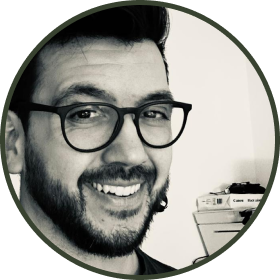
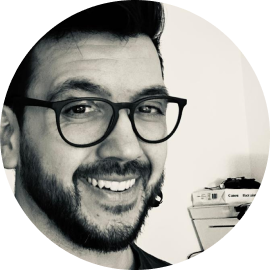
chore:about text fixed align, dual effect

Changed region(s): [[0.0, 0.0, 1.0, 1.0], [0.2963, 0.5926, 0.3556, 0.6222], [0.1778, 0.7111, 0.2074, 0.7407]]

diff --git a/styles/homepage/aboutme.scss b/styles/homepage/aboutme.scss
@@ -106,3 +106,32 @@
     }
   }
 }
+
+.image-hover {
+  --g: 8px; /* the gap */
+  
+  display: grid;
+  clip-path: inset(1px); /* to avoid visual glitchs */
+  & > img {
+    --_p: calc(-1*var(--g));
+    grid-area: 1/1;
+    width: 350px; /* control the size */
+    aspect-ratio: 1;
+    cursor: pointer;
+    transition: .4s .1s;
+  }
+  & > img:first-child {
+    clip-path: polygon(0 0, calc(100% + var(--_p)) 0 , 0 calc(100% + var(--_p)))
+  }
+  & > img:last-child {
+    clip-path: polygon(100% 100%, 100% calc(0% - var(--_p)), calc(0% - var(--_p)) 100%)
+  }
+  &:hover > img:last-child,
+  &:hover > img:first-child:hover{
+    --_p: calc(50% - var(--g));
+  }
+  &:hover > img:first-child,
+  &:hover > img:first-child:hover + img{
+    --_p: calc(-50% - var(--g));
+  }
+}

diff --git a/components/_homepage/About/image.jsx b/components/_homepage/About/image.jsx
@@ -1,14 +1,15 @@
 import React from "react";
 
-import { ImagesComponent } from "../../_shared";
+import { ImagesDualEffectComponent } from "../../_shared";
 
 export default function ImageComponent() {
   return (
     <>
-      <ImagesComponent
-        style="w-[260px] lg:w-[400px] h-[260px] lg:h-[400px] drop-shadow-xl"
+      <ImagesDualEffectComponent
+        style="w-[260px] lg:w-[400px] h-[260px] lg:h-[400px] image-hover hover:cursor-pointer"
         alt="paulo reizinho"
         src="/home_me_01.png"
+        src2="/home_me_02.png"
       />
     </>
   );

diff --git a/components/_shared/index.js b/components/_shared/index.js
@@ -3,6 +3,7 @@ export { default as TitleUpAndDown } from './title_up&down';
 export { default as BtnPrimaryCTA } from './btn_primary_cta';
 export { default as BtnSecondaryCTA } from './btn_secondary_cta';
 export { default as ImagesComponent } from './images';
+export { default as ImagesDualEffectComponent } from './imagesDual';
 export { default as CardPrimary } from './card_primary';
 export { default as StarsComponent } from './background_stars';
 export { default as CometsComponent } from './background_comets';

diff --git a/components/_homepage/About/index.jsx b/components/_homepage/About/index.jsx
@@ -22,7 +22,7 @@ export default function AboutSection() {
         <TitleRetro title="About me." />
       </EntryAnimation>
       <div className="w-4/5 2xl:w-3/5 custom-center flex-col xl:flex-row my-6 lg:my-10">
-        <EntryAnimation style="order-2 w-[430px] xl:w-full mt-6" animation={bringFromRight}>
+        <EntryAnimation style="order-2 min-w-[290px] lg:w-[430px] xl:w-full mt-6" animation={bringFromRight}>
           <TextComponent />
         </EntryAnimation>
         <EntryAnimation

diff --git a/components/_projects/Projects/index.jsx b/components/_projects/Projects/index.jsx
@@ -31,7 +31,7 @@ export default function ProjectsSection() {
         <ProjectsIntro pageIntro={t("projects:projects_intro")} />
       </EntryAnimation>
       <ProjectsExplanation />
-      <div className="flex w-full justify-around">
+      <div className="flex w-full h-full justify-around">
         <EntryAnimation style="w-1/2" animation={bringFromLeft}>
           <TitleRefexion word="PROFISSIONAL" />
         </EntryAnimation>

diff --git a/components/_shared/imagesDual.jsx b/components/_shared/imagesDual.jsx
@@ -1,0 +1,11 @@
+import React from "react";
+import Image from "next/image";
+
+export default function ImagesDualEffectComponent({ style, alt, src, alt2, src2 }) {
+  return (
+    <figure className={`relative ${style}`}>
+      <Image className="object-cover object-center" fill src={src} alt={alt} />
+      <Image className="object-cover object-center" fill src={src2} alt={alt2} />
+    </figure>
+  );
+}

diff --git a/components/_shared/images.jsx b/components/_shared/images.jsx
@@ -4,7 +4,7 @@ import Image from "next/image";
 export default function ImagesComponent({ style, alt, src }) {
   return (
     <figure className={`relative ${style}`}>
-      <Image className="object-cover object-center" fill src={src} alt={alt} />
+      <Image className="object-cover object-center drop-shadow-xl" fill src={src} alt={alt} />
     </figure>
   );
 }
